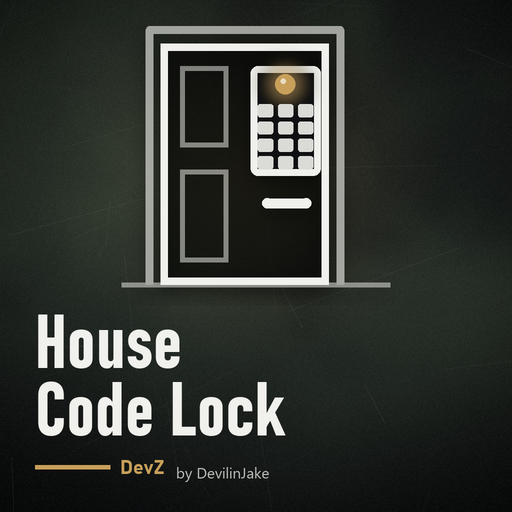
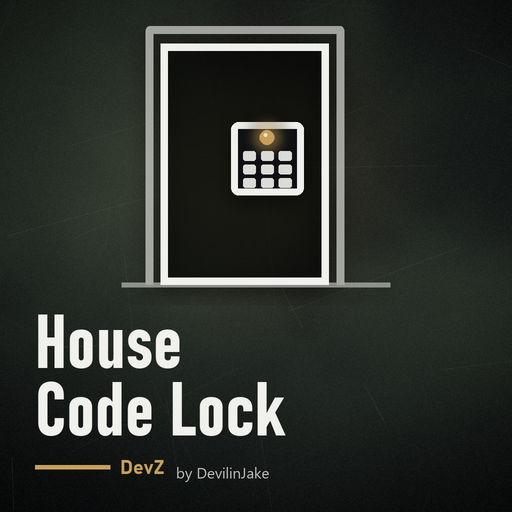
House Code Lock card: plain door, square lock set in from the edge

Changed region(s): [[0.3438, 0.125, 0.625, 0.5312]]

diff --git a/tools/workshop_preview.py b/tools/workshop_preview.py
@@ -457,7 +457,7 @@ class Pict:
         self.img.alpha_composite(lay)
 
     def codelock(self):
-        """a closed house door in its frame, a big keypad code lock on it where the vanilla
+        """a closed house door in its frame, a square keypad code lock on it where the vanilla
         digital lock goes, its status light lit in the mod's colour"""
         ground = 95
         dl, dr, dt = 16, 76, 9                      # the door's left, right and top edges
@@ -465,28 +465,27 @@ class Pict:
         self.d.line(self.p(2, ground, 98, ground), fill=self.fg + (130,), width=self.lw(1.8))
         self.d.line(self.p(dl - 4, ground, dl - 4, dt - 5, dr + 4, dt - 5, dr + 4, ground),
                     fill=self.fg + (160,), width=self.lw(3), joint="curve")
-        # the door, closed, with two raised panels down its left side
+        # the door, closed and plain
         self.d.rectangle(self.p(dl, dt, dr, ground), fill=(0, 0, 0, 120), outline=self.fg, width=self.lw(2.8))
-        for y0, y1 in [(17, 46), (54, 87)]:
-            self.d.rectangle(self.p(dl + 7, y0, dl + 24, y1), outline=self.fg + (120,), width=self.lw(1.8))
-        # the lever handle, under the lock
-        self.stroke([dr - 22, 66, dr - 8, 66], self.fg, 3.6)
-        # the keypad lock: a dark box with a status light at the top (lit, with a soft halo)
-        # and a 3x4 keypad under it, like Expansion's
-        lx0, ly0, lx1, ly1 = dr - 28, 17, dr - 3, 56
-        cx, ly = (lx0 + lx1) / 2, ly0 + 6.5
+        # the keypad lock: a square dark box, set in from the door's edge at about hand height,
+        # with a status light at the top (lit, with a soft halo) and a 3x3 keypad under it
+        side = 26
+        lx1 = dr - 9
+        lx0, ly0 = lx1 - side, 37
+        lx1, ly1 = lx0 + side, ly0 + side
+        cx, ly = (lx0 + lx1) / 2, ly0 + 5.5
         self.d.rounded_rectangle(self.p(lx0, ly0, lx1, ly1), radius=2.6 * self.k, fill=(14, 16, 18, 250),
                                  outline=self.fg, width=self.lw(2.6))
-        self.glow(cx, ly, 8.5, self.accent, alpha=135, blur=2.8)
-        self.d.ellipse(self.p(cx - 3.6, ly - 3.6, cx + 3.6, ly + 3.6), fill=self.accent)
-        self.d.ellipse(self.p(cx - 1.7, ly - 2.0, cx + 0.1, ly - 0.2), fill=lighten(self.accent, 0.65))
-        kw, kh, gx, gy = 5.4, 4.6, 1.8, 1.6
+        self.glow(cx, ly, 6.5, self.accent, alpha=135, blur=2.4)
+        self.d.ellipse(self.p(cx - 2.6, ly - 2.6, cx + 2.6, ly + 2.6), fill=self.accent)
+        self.d.ellipse(self.p(cx - 1.2, ly - 1.5, cx + 0.1, ly - 0.2), fill=lighten(self.accent, 0.65))
+        kw, kh, gx, gy = 4.6, 3.4, 1.8, 1.4
         kx0 = cx - (3 * kw + 2 * gx) / 2
-        ky0 = ly + 7
-        for j in range(4):
+        ky0 = ly + 4.8
+        for j in range(3):
             for i in range(3):
                 x, y = kx0 + i * (kw + gx), ky0 + j * (kh + gy)
-                self.d.rounded_rectangle(self.p(x, y, x + kw, y + kh), radius=0.9 * self.k, fill=self.fg + (230,))
+                self.d.rounded_rectangle(self.p(x, y, x + kw, y + kh), radius=0.8 * self.k, fill=self.fg + (230,))
 
     def tiles(self, items):
         """A bundle: one small card-like tile per mod, each with that mod's own pictogram and
